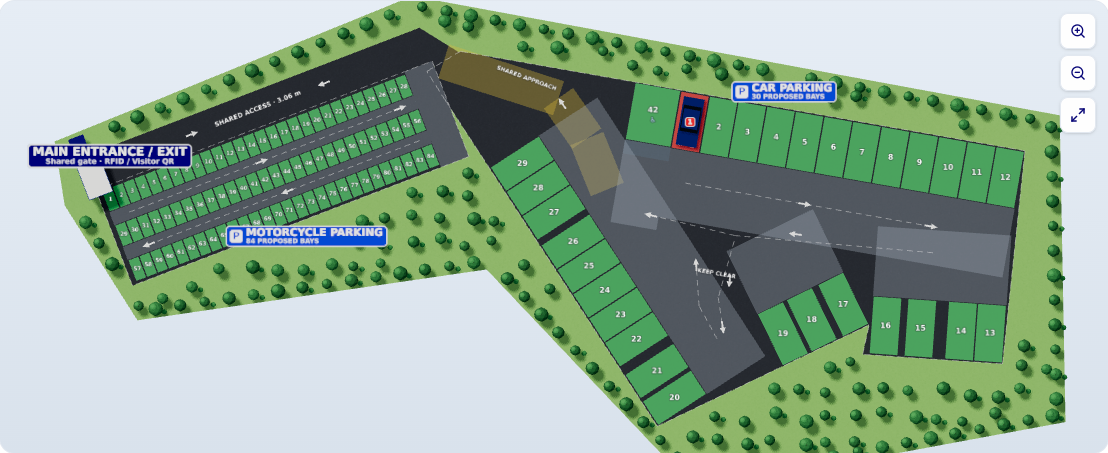
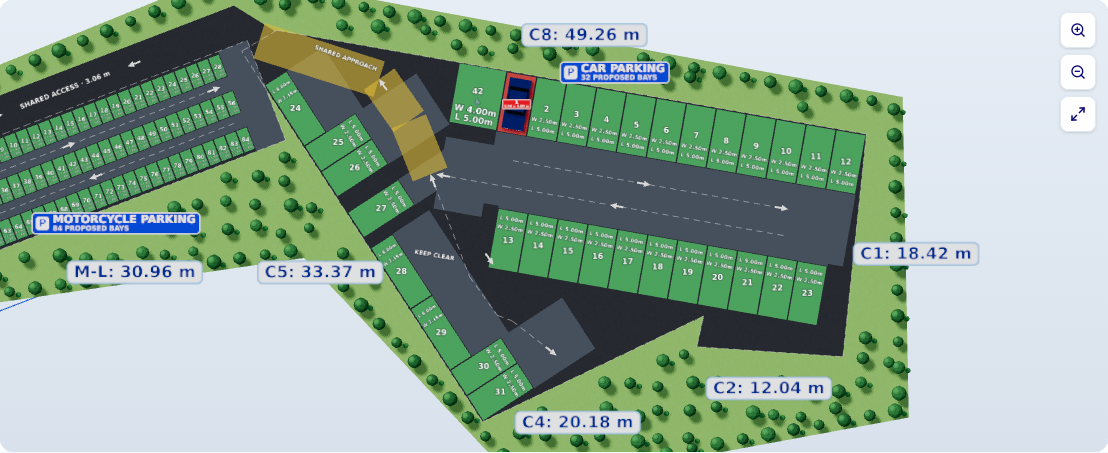
Show per-slot dimensions and distinguish 32 proposed bays from the 55-car target

diff --git a/src/components/ParkingLot3D.tsx b/src/components/ParkingLot3D.tsx
@@ -374,7 +374,7 @@ function edgeDistance(p: Point, points: Point[]) {
 
 // ----------------------------------------------------------------- static site
 
-const Site = memo(function Site({ g, trays, onGate, gateOnline }: { g: MapGeometry; trays: TrayPanel[]; onGate: (e: ThreeEvent<MouseEvent>) => void; gateOnline: boolean }) {
+const Site = memo(function Site({ g, trays, onGate, gateOnline, showMeasurements }: { g: MapGeometry; trays: TrayPanel[]; onGate: (e: ThreeEvent<MouseEvent>) => void; gateOnline: boolean; showMeasurements: boolean }) {
   const parts = useMemo(() => {
     const asphalt = noiseTexture('#30353E', ['#1F242B', '#454B55', '#3A4049'], 40);
     const grass = noiseTexture('#7FB262', ['#6A9C50', '#93C477', '#5E8E46'], 30);
@@ -436,7 +436,7 @@ const Site = memo(function Site({ g, trays, onGate, gateOnline }: { g: MapGeomet
       <mesh geometry={parts.blue} material={paintMat('#2563EB')} />
 
       <GroundText text={g.road.label} at={g.road.label_at} h={5} deg={g.road.label_angle} />
-      {g.circulation?.map((clearance, index) => <mesh key={`clearance-${index}`} geometry={flat(clearance.polygon, PAINT - 0.03)} material={paintMat(clearance.kind === 'walkway' ? '#93C5FD' : clearance.kind === 'car_approach' ? '#EAB308' : '#4B5563', clearance.kind === 'car_approach' ? 0.6 : 1)} />)}
+      {g.circulation?.filter(c => showMeasurements || ['walkway', 'car_approach'].includes(c.kind)).map((clearance, index) => <mesh key={`clearance-${index}`} geometry={flat(clearance.polygon, PAINT - 0.03)} material={paintMat(clearance.kind === 'walkway' ? '#93C5FD' : clearance.kind === 'car_approach' ? '#EAB308' : '#4B5563', clearance.kind === 'car_approach' ? 0.6 : 1)} />)}
       {g.circulation_labels?.map(label => <GroundText key={label.text} text={label.text} at={label.at} h={4.4} deg={label.angle} />)}
 
       {parts.islands.map((island, i) => {
@@ -506,11 +506,12 @@ function Stall({ s, selected, onSelect }: { s: SceneSlot; selected: boolean; onS
   );
 }
 
-const Slots = memo(function Slots({ slots, extra, selectedId, closeUp, onSelect }: {
+const Slots = memo(function Slots({ slots, extra, selectedId, closeUp, onSelect, measurementUnit }: {
   slots: SceneSlot[];
   extra: MapData['extra_bays'];
   selectedId: number | null;
   closeUp: boolean;
+  measurementUnit?: number;
   onSelect: (s: MapSlot, e: ThreeEvent<MouseEvent>) => void;
 }) {
   // Stall lines, unconfirmed-location dashes, and painted stalls that are not PASS slots.
@@ -541,7 +542,8 @@ const Slots = memo(function Slots({ slots, extra, selectedId, closeUp, onSelect 
         const h = Math.max(3, Math.min(s.area_code === 'MC' ? 4.4 : 6, short * 0.55));
         if (s.status === 'occupied') {
           const top = isMotorcycle(s) ? 7 : 9.5;
-          const tex = badge(closeUp && s.occupant ? [label, s.occupant.plate_number] : [label], '#DC2626', { size: 30 });
+          const dimensions = measurementUnit ? `${(Math.min(s.gw, s.gh) / measurementUnit).toFixed(2)} × ${(Math.max(s.gw, s.gh) / measurementUnit).toFixed(2)} m` : null;
+          const tex = badge([label, ...(closeUp && s.occupant ? [s.occupant.plate_number] : []), ...(dimensions ? [dimensions] : [])], '#DC2626', { size: 30 });
           return <Billboard key={`n${s.slot_id}`} tex={tex} at={[s.gx, PAVE + top + h * 0.7, s.gy]} h={closeUp ? h * 1.6 : h * 1.15} />;
         }
         return (
@@ -552,6 +554,21 @@ const Slots = memo(function Slots({ slots, extra, selectedId, closeUp, onSelect 
             )}
           </React.Fragment>
         );
+      })}
+
+      {!!measurementUnit && slots.filter(s => s.status !== 'occupied').map(s => {
+        const r = THREE.MathUtils.degToRad(s.rot);
+        const horizontal = s.gw > s.gh;
+        const long = Math.max(s.gw, s.gh);
+        const short = Math.min(s.gw, s.gh);
+        const direction = horizontal ? [Math.cos(r), Math.sin(r)] : [-Math.sin(r), Math.cos(r)];
+        let angle = s.rot + (horizontal ? 90 : 0);
+        while (angle > 90) angle -= 180;
+        while (angle < -90) angle += 180;
+        return <React.Fragment key={`dimension-${s.slot_id}`}>
+          {[{ label: `W ${(short / measurementUnit).toFixed(2)}m`, offset: s.accessible ? 0.24 : 0.20 }, { label: `L ${(long / measurementUnit).toFixed(2)}m`, offset: s.accessible ? 0.39 : 0.35 }].map(d => <GroundText key={d.label} text={d.label}
+            at={[s.gx + direction[0] * long * d.offset, s.gy + direction[1] * long * d.offset]} h={short * 0.20} deg={angle} color="#F8FAFC" />)}
+        </React.Fragment>;
       })}
 
       {slots.filter(s => s.incident).map(s => (
@@ -831,10 +848,10 @@ export default function ParkingLot3D(props: Props) {
       </div> : <p className="text-xs text-slate-500">Proposed campus parking layout</p>}
       {(measured || !props.data.measured_layout) && <button type="button" aria-pressed={showMeasurements} onClick={() => { if (!showMeasurements) setMeasured(true); setShowMeasurements(value => !value); }} className={`min-h-11 rounded-lg border px-3 py-2 text-xs font-semibold inline-flex items-center gap-2 ${showMeasurements ? 'border-[#080677] bg-blue-50 text-[#080677]' : 'border-slate-200 text-slate-600 hover:bg-blue-50'}`}><Ruler size={16} />{showMeasurements ? 'Hide measurements' : 'Show measurements'}</button>}
     </div>
-    {inventory && (measured ? <div role="note" className="rounded-xl border border-amber-200 bg-amber-50 p-3 text-xs leading-relaxed text-amber-900"><strong>Parking layout:</strong> {inventory.car_drawn} full-size car bays arranged around the perimeter. The centre is reserved for access and manoeuvring. Proposed positions require campus confirmation.</div> : <p role="note" className="rounded-xl border border-blue-100 bg-blue-50 p-3 text-xs leading-relaxed text-blue-900"><strong>Inventory diagram:</strong> {inventory.car_drawn} car slots and {inventory.motorcycle_drawn} motorcycle slots. Car bay symbols are schematic, not to scale. Follow parking staff directions.</p>)}
-    {showMeasurements && <p className="text-xs text-blue-800">One metric scale in the measured proposal. Car bearings are assumed; measurements do not certify physical capacity.</p>}
+    {inventory && (measured ? <div role="note" className="rounded-xl border border-amber-200 bg-amber-50 p-3 text-xs leading-relaxed text-amber-900"><strong>Parking layout:</strong> {inventory.car_drawn} full-size proposed car bays. The {inventory.car_configured}-car inventory target is retained; {inventory.car_configured - inventory.car_drawn} positions still need a measured layout. Use Show measurements to see each bay’s width × length. Campus confirmation is pending.</div> : <p role="note" className="rounded-xl border border-blue-100 bg-blue-50 p-3 text-xs leading-relaxed text-blue-900"><strong>Inventory diagram:</strong> {inventory.car_drawn} car slots and {inventory.motorcycle_drawn} motorcycle slots. Car bay symbols are schematic, not to scale. Follow parking staff directions.</p>)}
+    {showMeasurements && <p className="text-xs text-blue-800">Each proposed bay shows W (width) and L (length), in metres. Zoom in or open a slot for its size. Boundary angles and vehicle manoeuvres still require campus confirmation.</p>}
     {supported ? <WebGLBoundary fallback={fallback}><Lot {...props} data={activeData} showMeasurements={showMeasurements} /></WebGLBoundary> : fallback}
-    <ParkingMeasurements geometry={activeData.geometry} />
+    <ParkingMeasurements geometry={activeData.geometry} slots={activeData.slots} />
   </div>;
 }
 
@@ -921,8 +938,8 @@ function Lot({ viewMode = '3d', showMeasurements = false, data, highlight, selec
         <primitive object={sun} />
         <primitive object={sun.target} />
         <CameraRig ref={rig} home={home} onCloseUp={setCloseUp} />
-        <Site g={g} trays={stableTrays} onGate={gate} gateOnline={gateOnline} />
-        <Slots slots={slots} extra={data.extra_bays} selectedId={selectedId} closeUp={closeUp} onSelect={select} />
+        <Site g={g} trays={stableTrays} onGate={gate} gateOnline={gateOnline} showMeasurements={showMeasurements} />
+        <Slots slots={slots} extra={data.extra_bays} selectedId={selectedId} closeUp={closeUp} onSelect={select} measurementUnit={showMeasurements && g.measurement_basis?.scale === 'metric_proposal' ? g.measurement_basis.units_per_metre : undefined} />
         <Signs g={g} areas={data.areas ?? []} trays={stableTrays} />
         {showMeasurements && <Measurements geometry={g} />}
         <Markers slots={slots} highlight={highlight} recent={recent} />

diff --git a/src/components/ParkingMap.tsx b/src/components/ParkingMap.tsx
@@ -82,6 +82,7 @@ export interface MapGeometry {
   measurement_basis?: {
     survey_verified: boolean; scale: string; source_image: string; note: string; pathway_note: string;
     car_source_image?: string; car_edges_m?: number[]; units_per_metre?: number;
+    capacity_review?: { reported_car_capacity: number; proposed_car_bays: number; unresolved_car_positions: number; survey_verified: boolean; note: string };
     motorcycle_proposal?: string; car_proposal?: string; circulation_note?: string;
     vehicle_measurements?: { car_width_m: number; car_length_m: number; car_mirrors_included: boolean; motorcycle_width_m: number; motorcycle_length_m: number; note: string };
     inventory?: { motorcycle_configured: number; motorcycle_drawn: number; car_configured: number; car_drawn: number };
@@ -96,6 +97,14 @@ export interface MapData {
   slots: MapSlot[];
   measured_layout?: { geometry: MapGeometry; positions: Record<string, { x: number; y: number; w: number; h: number; rotation: number }> };
   extra_bays: MapBay[];
+}
+
+/** Physical proposal dimensions, never the size of a schematic inventory symbol. */
+export function proposedSlotSize(data: MapData | null | undefined, code: string) {
+  const p = data?.measured_layout?.positions[code];
+  const unit = data?.measured_layout?.geometry.measurement_basis?.units_per_metre;
+  if (!p || !unit) return null;
+  return `${(Math.min(p.w, p.h) / unit).toFixed(2)} × ${(Math.max(p.w, p.h) / unit).toFixed(2)} m`;
 }
 
 // ----------------------------------------------------------------------------- helpers
@@ -231,7 +240,7 @@ export default function ParkingMap({ data, highlight, onSelect, focusArea, showM
           </g>
         ))}
 
-        {g.circulation?.map((clearance, index) => <polygon key={`clearance-${index}`} points={pts(clearance.polygon)} fill={clearance.kind === 'walkway' ? '#BFDBFE' : clearance.kind === 'car_approach' ? '#FDE68A' : '#CBD5E1'} fillOpacity={clearance.kind === 'car_approach' ? 0.7 : 1} stroke="#94A3B8" strokeWidth={0.3} />)}
+        {g.circulation?.filter(c => showMeasurements || ['walkway', 'car_approach'].includes(c.kind)).map((clearance, index) => <polygon key={`clearance-${index}`} points={pts(clearance.polygon)} fill={clearance.kind === 'walkway' ? '#BFDBFE' : clearance.kind === 'car_approach' ? '#FDE68A' : '#CBD5E1'} fillOpacity={clearance.kind === 'car_approach' ? 0.7 : 1} stroke="#94A3B8" strokeWidth={0.3} />)}
 
         {g.circulation_labels?.map(label => <text key={label.text} transform={`translate(${label.at[0]} ${label.at[1]}) rotate(${label.angle})`} textAnchor="middle" fontSize={5} fontWeight={700} fill="#475569">{label.text}</text>)}
 
@@ -312,6 +321,17 @@ export default function ParkingMap({ data, highlight, onSelect, focusArea, showM
                 fontSize={Math.min(5, short * 0.62)} fontWeight={700} fill={c.text} pointerEvents="none">
                 {s.accessible ? `♿ ${slotNumber(s.slot_code)}` : slotNumber(s.slot_code)}
               </text>
+              {showMeasurements && g.measurement_basis?.scale === 'metric_proposal' && [
+                { label: `W ${(Math.min(w, h) / (g.measurement_basis.units_per_metre || 8)).toFixed(2)}m`, offset: s.accessible ? 0.24 : 0.20 },
+                { label: `L ${(Math.max(w, h) / (g.measurement_basis.units_per_metre || 8)).toFixed(2)}m`, offset: s.accessible ? 0.39 : 0.35 },
+              ].map(d => {
+                const x = w > h ? w * d.offset : 0, y = w > h ? 0 : h * d.offset;
+                const direction = w > h ? 90 : 0;
+                const flip = s.rotation + direction > 90 || s.rotation + direction < -90 ? 180 : 0;
+                return <text key={d.label} x={x} y={y} textAnchor="middle" dominantBaseline="central"
+                  fontSize={short * 0.20} fontWeight={600} fill={c.text} pointerEvents="none"
+                  transform={`rotate(${direction + flip} ${x} ${y})`}>{d.label}</text>;
+              })}
               {showPlates && s.occupant && short >= 9 && (
                 <text transform={`rotate(${angle}) translate(0 ${Math.min(5, short * 0.62) * 0.95})`} textAnchor="middle" dominantBaseline="central"
                   fontSize={2.3} fill={c.text} pointerEvents="none">{s.occupant.plate_number}</text>

diff --git a/src/components/ParkingMeasurements.tsx b/src/components/ParkingMeasurements.tsx
@@ -1,6 +1,6 @@
 import React from 'react';
 import { ExternalLink, Ruler } from 'lucide-react';
-import type { MapGeometry } from './ParkingMap';
+import type { MapGeometry, MapSlot } from './ParkingMap';
 
 function BayTemplate({ width, length, label }: { width: number; length: number; label: string }) {
   const scale = 20;
@@ -14,7 +14,7 @@ function BayTemplate({ width, length, label }: { width: number; length: number; 
   </svg>;
 }
 
-export default function ParkingMeasurements({ geometry }: { geometry: MapGeometry }) {
+export default function ParkingMeasurements({ geometry, slots = [] }: { geometry: MapGeometry; slots?: MapSlot[] }) {
   const basis = geometry.measurement_basis;
   if (!basis) return null;
   const diagram = basis.scale === 'slot_diagram';
@@ -22,9 +22,18 @@ export default function ParkingMeasurements({ geometry }: { geometry: MapGeometr
     <summary className="cursor-pointer text-sm font-semibold text-[#080677] flex items-center gap-2"><Ruler size={16} />Measurements & design basis</summary>
     <div className="space-y-5 mt-4">
       <p className="text-sm text-slate-600">{basis.note}</p>
+      {!diagram && <div className="space-y-2">
+        <h3 className="text-sm font-semibold text-[#080677]">Individual slot measurements</h3>
+        <p className="text-xs text-slate-500">Proposed clear bay dimensions, width × length. These are not vehicle body dimensions.</p>
+        <div className="max-h-64 overflow-auto rounded-lg border border-slate-200">
+          <table className="w-full text-left text-xs"><thead className="sticky top-0 bg-slate-100 text-slate-600"><tr><th className="p-3">Slot</th><th className="p-3">Width</th><th className="p-3">Length</th><th className="p-3">Type</th></tr></thead>
+            <tbody>{slots.filter(s => s.placed && s.w && s.h).sort((a, b) => a.slot_code.localeCompare(b.slot_code, undefined, { numeric: true })).map(s => <tr key={s.slot_id} className="border-t border-slate-100"><td className="p-3 font-semibold text-[#080677]">{s.slot_code}</td><td className="p-3 whitespace-nowrap">{(Math.min(s.w!, s.h!) / (basis.units_per_metre || 8)).toFixed(2)} m</td><td className="p-3 whitespace-nowrap">{(Math.max(s.w!, s.h!) / (basis.units_per_metre || 8)).toFixed(2)} m</td><td className="p-3">{s.accessible ? 'Accessible' : s.area_code === 'MC' ? 'Motorcycle' : Math.min(s.w!, s.h!) / (basis.units_per_metre || 8) < 2.5 ? 'Parallel' : 'Car'}</td></tr>)}</tbody>
+          </table>
+        </div>
+      </div>}
       {basis.inventory && <div className="grid gap-3 sm:grid-cols-2">
         <div className="rounded-xl border border-blue-100 bg-blue-50 p-4"><h3 className="text-sm font-bold text-[#080677]">Motorcycle proposal</h3><p className="my-2 text-2xl font-bold text-[#080677]">{basis.inventory.motorcycle_drawn} compact bays</p><p className="text-xs leading-relaxed text-slate-600">{basis.motorcycle_proposal}</p></div>
-        <div className="rounded-xl border border-amber-200 bg-amber-50 p-4"><h3 className="text-sm font-bold text-amber-900">{diagram ? 'Complete car slot map' : 'Car perimeter arrangement'}</h3><p className="my-2 text-2xl font-bold text-amber-900">{basis.inventory.car_drawn} {diagram ? 'mapped' : 'drawn'} / {basis.inventory.car_configured} configured</p><p className="text-xs leading-relaxed text-amber-900">{basis.car_proposal}</p></div>
+        <div className="rounded-xl border border-amber-200 bg-amber-50 p-4"><h3 className="text-sm font-bold text-amber-900">{diagram ? 'Complete car slot map' : 'Car parking arrangement'}</h3><p className="my-2 text-2xl font-bold text-amber-900">{basis.inventory.car_drawn} {diagram ? 'mapped' : 'proposed'} / {basis.inventory.car_configured} configured</p><p className="text-xs leading-relaxed text-amber-900">{basis.car_proposal}</p></div>
       </div>}
       {basis.vehicle_measurements && <div className="rounded-xl border border-slate-200 p-4 space-y-2">
         <h3 className="text-sm font-semibold text-[#080677]">Measured vehicle reference</h3>

diff --git a/src/components/ParkingAvailabilityMap.tsx b/src/components/ParkingAvailabilityMap.tsx
@@ -3,6 +3,7 @@ import { Box, Map as MapIcon, RefreshCw, ParkingSquare } from 'lucide-react';
 import { Button, Card, Modal, StatCard } from './ui';
 import ParkingLot3D from './ParkingLot3D';
 import type { MapData, MapSlot } from './ParkingMap';
+import { proposedSlotSize } from './ParkingMap';
 import { apiRequest } from '../lib/apiClient';
 import { POLL_MS } from '../lib/liveSync';
 import { formatCampusDateTime } from '../lib/datetime';
@@ -83,7 +84,7 @@ export default function ParkingAvailabilityMap() {
       <div className="grid sm:grid-cols-2 gap-3">{data.areas.map(area => <Card key={area.area_code} className="p-4 flex items-center justify-between gap-3"><span className="text-sm font-semibold text-[#080677]">{area.area_name}</span><span className="text-sm text-slate-600"><strong className="text-green-700">{area.available}</strong> / {area.capacity} available</span></Card>)}</div>
     </>}
     <Modal open={!!selected} onClose={() => setSelectedId(null)} title={`Slot ${selected?.slot_code ?? ''}`} size="sm">
-      {selected && <div className="space-y-3 text-sm"><p className="font-semibold text-[#080677]">{selected.area_name}</p><p className="capitalize">{selected.status}</p>{selected.accessible && <p>Accessible / PWD bay</p>}{data?.geometry.proposed_slot_codes?.includes(selected.slot_code) && <p className="text-amber-800">Proposed map position; campus confirmation is pending.</p>}<p className="text-slate-500">Availability can change before you arrive. Follow the parking staff’s directions.</p><Button onClick={() => setSelectedId(null)}>Close</Button></div>}
+      {selected && <div className="space-y-3 text-sm"><p className="font-semibold text-[#080677]">{selected.area_name}</p><p className="capitalize">{selected.status}</p><p><strong>Proposed bay size:</strong> {proposedSlotSize(data, selected.slot_code) ?? 'No measured position established for this code.'}</p>{selected.accessible && <p>Accessible / PWD bay</p>}{data?.geometry.proposed_slot_codes?.includes(selected.slot_code) && <p className="text-amber-800">Proposed map position; campus confirmation is pending.</p>}<p className="text-slate-500">Availability can change before you arrive. Follow the parking staff’s directions.</p><Button onClick={() => setSelectedId(null)}>Close</Button></div>}
     </Modal>
   </div>;
 }

diff --git a/src/pages/app/ParkingOperations.tsx b/src/pages/app/ParkingOperations.tsx
@@ -6,7 +6,7 @@ import { PageHeader, Card, Badge, Button, Table, SearchBar, Select, Modal, StatC
 import { apiRequest } from '../../lib/apiClient';
 import { CAMPUS_TIMEZONE, formatCampusDateTime } from '../../lib/datetime';
 import { useLiveLoad, useLiveSync, POLL_MS, type Topic } from '../../lib/liveSync';
-import { MapData, MapSlot, slotFill } from '../../components/ParkingMap';
+import { MapData, MapSlot, slotFill, proposedSlotSize } from '../../components/ParkingMap';
 import ParkingLot3D from '../../components/ParkingLot3D';
 import ParkingAvailabilityMap from '../../components/ParkingAvailabilityMap';
 import { ParkingSquare, Car, CheckCircle, Wrench, AlertTriangle, LogIn, LogOut, RefreshCw, MapPin, Box, Map as MapIcon, Bike, Layers } from 'lucide-react';
@@ -883,6 +883,7 @@ function ParkingLayout({ notify, highlight, onHighlight }: {
               {[
                 ['Slot number', selected.slot_code],
                 ['Parking area', selected.area_name],
+                ['Proposed bay size', proposedSlotSize(data, selected.slot_code) ?? 'No measured position established for this code'],
                 ['Slot status', selected.status === 'occupied' ? 'Occupied' : selected.status === 'maintenance' ? 'Maintenance / disabled' : 'Available'],
                 ...(selected.accessible ? [['Slot type', 'Accessible (PWD)']] : []),
                 ['Map position', data?.geometry.proposed_slot_codes?.includes(selected.slot_code) ? 'Proposed position · campus confirmation pending' : selected.placed ? 'Mapped on the proposed layout' : 'No confirmed map position'],

diff --git a/docs/parking-capacity-review.md b/docs/parking-capacity-review.md
@@ -1,0 +1,40 @@
+# PASS car capacity review — 17 October 2026
+
+The owner reports an existing capacity of **55 cars**. That value and all 55 inventory records are retained. It is not replaced by the smaller count in a proposed drawing.
+
+The earlier 30-bay perimeter drawing was a candidate arrangement, not a maximum-capacity finding. A new search of opposing rows, perimeter banks, mixed orientations and parallel bays found **32 full-size proposed positions** with clear geometric access frontages. No physical bay has been shrunk to the size of an inventory symbol.
+
+| Item | Proposed arrangement |
+| --- | --- |
+| North row | C-01–C-12, 12 regular bays |
+| Opposing central row | C-13–C-23, 11 regular bays |
+| Western/lower regular bays | C-25, C-26, C-27, C-30, C-31 |
+| Western parallel bays | C-24, C-28, C-29 |
+| Existing accessible code | C-42 |
+| Total drawn car positions | 32 |
+| Remaining car codes | 23, retained without a measured position |
+
+Regular bays are **2.50 × 5.00 m**. Parallel bays are **2.15 × 6.00 m**. C-42 is **4.00 × 5.00 m** with a **1.20 m front walkway**. Perpendicular frontages retain **6.00 m** clear depth; parallel frontages use a proposed **3.60 m** access depth. The shared gate and approach remain **3.06 m**, for alternating traffic. Slot sizes appear in Plan/3D/SVG when Show measurements is enabled and in each positioned slot’s details and the measurement table. Unpositioned inventory codes have no invented measured size or surveyed position.
+
+The car width supplied by the owner is **2.0447 m body-only**, excluding mirrors; maximum measured length is **4.7752 m**. Those dimensions do not replace parking-bay widths. Mirrors, wheelbase, steering lock, turn envelopes, surface slope and adjacent obstructions remain unmeasured.
+
+## What the checks establish
+
+The software checks retain the supplied parcel-edge lengths, all 139 inventory records, live statuses, access rules, existing transactions and the gate state. Proposed bay rectangles stay inside their parcel and do not overlap each other, access frontages, motorcycle aisles or the shared road. A clear-envelope grid was used to connect every proposed access frontage to the approach; it is not a swept-path or vehicle turning-radius analysis. Direction arrows do not represent two simultaneous lanes on the narrow approach.
+
+The car polygon is reconstructed from supplied lengths and estimated bearings. Its approximate 972 m² model area is not a surveyed usable area. Lengths alone do not define the actual polygon. The layout search does **not** prove that 32 is the physical maximum or that 55 is impossible.
+
+## Defense wording
+
+“PASS retains the campus-reported capacity of 55 cars. Our scaled proposal currently establishes 32 full-size candidate positions with geometric access clearances. The remaining positions require actual parking-position and circulation validation. The software’s inventory count is kept separate from the validated physical layout.”
+
+Before presenting all 55 as independently accessible bays, obtain the current car-position arrangement and establish whether the reported 55 includes tandem, double or blocked parking, staff vehicle movements, smaller vehicles, another parking surface or a different boundary. Accessible-space count and continuous accessible routes also need campus/professional review; retaining C-42 is not a full accessibility compliance claim.
+
+## References
+
+- DPWH Department Order 56, series of 2016, Annex A: 2.50 × 5.00 m perpendicular/diagonal and 2.15 × 6.00 m parallel bay references: https://www.dpwh.gov.ph/dpwh/sites/default/files/issuances/DO_056_s2016.pdf
+- NCDA revised 2024 BP 344 IRR, parking dimensions and accessible-space provisions: https://ncda.gov.ph/revised-2024-rules-and-regulations-implementing-batas-pambansa-344/
+
+## Apply the update
+
+Import the matching PASS-parking-capacity-backend.bundle and PASS-parking-capacity-frontend.bundle from branch feature/parking-capacity-review-20261017. Run route:clear and parking:refresh-layout in Laravel; build the frontend with npm run build. No migration or operational seeding is required. Use /app/parking/layout or the guest Parking Layout page. The optional Inventory diagram still contains all 55 car codes and is explicitly schematic.

diff --git a/docs/parking-capacity-import.md b/docs/parking-capacity-import.md
@@ -1,0 +1,32 @@
+# Apply the parking capacity review build
+
+Download both bundles into Downloads. This is a **32-position review proposal**, with per-slot sizes. All 55 car inventory records and the existing capacity rules remain. The physical 55-car layout still requires actual parking-position evidence; this update does not certify 55 independent bays.
+
+In your PASS-BE-LARAVEL PowerShell terminal:
+
+```powershell
+git fetch "$env:USERPROFILE\Downloads\PASS-parking-capacity-backend.bundle" feature/parking-capacity-review-20261017
+if ($LASTEXITCODE -eq 0) {
+    git merge --ff-only FETCH_HEAD
+    if ($LASTEXITCODE -eq 0) {
+        php artisan route:clear
+        php artisan parking:refresh-layout
+    }
+}
+```
+
+In your PASS-FE-REACT PowerShell terminal:
+
+```powershell
+git fetch "$env:USERPROFILE\Downloads\PASS-parking-capacity-frontend.bundle" feature/parking-capacity-review-20261017
+if ($LASTEXITCODE -eq 0) {
+    git merge --ff-only FETCH_HEAD
+    if ($LASTEXITCODE -eq 0) {
+        npm run build
+    }
+}
+```
+
+No migration or operational seeding is required. Refresh `/app/parking/layout` (or the guest Parking Layout page). Choose **Parking layout**, then **Show measurements**. Select a bay to see its proposed width × length; expand **Measurements & design basis** for the individual slot table. **Inventory diagram** retains all 55 car codes and explicitly uses schematic symbols.
+
+A merge error stops the guarded sequence. Preserve any uncommitted changes rather than overwriting layout files or forcing the merge.
